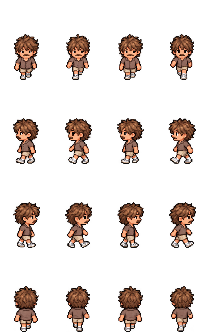
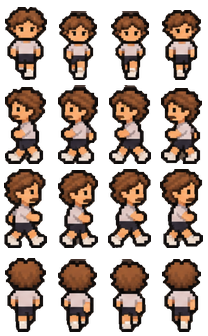
New Hayden, Bailey & Dakota's daily schedule, clickable walking views for everyone
- Hayden: new walking and biking sprites and admin portrait
- Annie: new admin portrait
- Bailey & Dakota: breakfast/dinner at the table, couch evenings, weekday gym 6-7 PM, weekend roaming
- Characters panel: Blair and all the animals show their walking animation

Claude-Session: https://claude.ai/code/session_019vfc9BGUzCoWkXYcXMf4Ma

diff --git a/game.js b/game.js
@@ -1355,10 +1355,35 @@
     const row = (_a2 = { down: 0, left: 1, right: 2, up: 3 }[actor.dir]) != null ? _a2 : 0;
     g.drawImage(source, Math.floor(actor.phase) % 4 * 52, row * 84, 52, 84, actor.x - 32, actor.y - 94, 64, 104);
   }
+  for (const n of ["jones_eat", "jones_couch", "jones_workout"]) loadAsset(n);
+  const IK = 0.75;
+  function jonesIndoorSprites(id) {
+    const act = jonesActivity(simMinute), out = [];
+    if (id === "jones" && (act === "breakfast" || act === "dinner")) out.push({ img: "jones_eat", sx: Math.floor(clock * 1.1) % 6 * 170, sy: 0, sw: 170, sh: 150, x: 195, y: 390, w: 182, h: 162, name: "Bailey & Dakota" });
+    if (id === "jones" && act === "couch") out.push({ img: "jones_couch", sx: Math.floor(clock * 0.5) % 5 * 150, sy: 0, sw: 150, sh: 110, x: 455, y: 405, w: 210, h: 154, name: "Bailey & Dakota" });
+    if (id === "gym" && act === "gym") {
+      const swap = simMinute >= 18.5 * 60;
+      const bench = { x: 712, y: 340, w: 185, h: 185 }, floor = { x: 520, y: 470, w: 175, h: 175 };
+      const who = [["Bailey", swap ? 1 : 0], ["Dakota", swap ? 2 : 3]];
+      for (const [name, row] of who) {
+        const benchRow = row === 1 || row === 3, n = benchRow ? 5 : 6, at = benchRow ? bench : floor;
+        out.push({ img: "jones_workout", sx: Math.floor(clock * (benchRow ? 2 : 2.4)) % n * 120, sy: row * 120, sw: 120, sh: 120, x: at.x, y: at.y, w: at.w, h: at.h, name });
+      }
+    }
+    return out;
+  }
+  function drawJonesIndoors(id) {
+    for (const s2 of jonesIndoorSprites(id)) {
+      const im = assets[s2.img];
+      if (!(im && im.naturalWidth)) continue;
+      g.drawImage(im, s2.sx, s2.sy, s2.sw, s2.sh, s2.x * IK, s2.y * IK, s2.w * IK, s2.h * IK);
+    }
+  }
   function drawIllustratedInterior(id) {
     const image = illustrated(id);
     fill(0, 0, 1152, 768, "#10251e");
     if (image) g.drawImage(image, 0, 0, 1152, 768);
+    if (image && (id === "jones" || id === "gym")) drawJonesIndoors(id);
     else text("Opening " + interiors[id].name + "…", 576, 384, 22, "#ffe4ac");
     const shade = darknessAt(simMinute) * 0.23;
     if (shade) fill(0, 0, 1152, 768, "rgba(22,29,65," + shade + ")");
@@ -1703,7 +1728,8 @@
         }
       }
       if (f.paths) {
-        if (rideEvening && homeSince5(f, T2)) continue;
+        if (f.id === "jonesF" && jonesActivity(m) !== "town") continue;
+        if (f.id !== "jonesF" && rideEvening && homeSince5(f, T2)) continue;
         const p = folkAt(f, clock);
         if (p) out.push(byId[f.id] = Object.assign(p, { folk: f }));
         continue;
@@ -1722,7 +1748,7 @@
   const RIDE_SPEED = RIDE_LAPS * RIDE_LOOP.length / (RIDE_END - RIDE_START);
   const RIDE_SHEETS = {
     annie: { cw: 90, ch: 100, frames: 7, rows: { right: [0, 4], left: [1, 4], down: [2, 7], up: [3, 7] }, dirs: ["down", "right", "up", "left"] },
-    hayden: { cw: 83, ch: 99, k: 0.8, dirs: ["down", "downright", "right", "upright", "up", "upleft", "left", "downleft"] },
+    hayden: { cw: 90, ch: 100, rows: { right: [0, 4], left: [1, 4], down: [2, 4], up: [3, 4] }, dirs: ["down", "right", "up", "left"] },
     alisa: { cw: 66, ch: 101, dirs: ["down", "right", "up", "left"] },
     ralph: { cw: 66, ch: 101, dirs: ["down", "right", "up", "left"] },
     nick: { cw: 66, ch: 100, dirs: ["down", "right", "up", "left"] },
@@ -1769,6 +1795,15 @@
   }
   const RIDER = Object.fromEntries(RIDERS.map((r) => [r.id, r]));
   let rideForced = false;
+  function jonesActivity(m) {
+    const wd = centralWeekday(), weekend = wd === 0 || wd === 6;
+    if (m < 7 * 60 || m >= 21.5 * 60) return "sleep";
+    if (m < 8 * 60) return "breakfast";
+    if (m >= 19 * 60 && m < 20 * 60) return "dinner";
+    if (m >= 20 * 60) return "couch";
+    if (!weekend && m >= 18 * 60) return isRideDay() ? "ride" : "gym";
+    return "town";
+  }
   function centralWeekday() {
     const day = centralSnapshot ? centralSnapshot.dayNumber : Math.floor(Date.now() / 864e5);
     return ((day + 4) % 7 + 7) % 7;
@@ -2167,7 +2202,7 @@
     g.drawImage(img, frame * 64, row * 96, 64, 96, Math.round(e.x - w / 2), Math.round(e.y - h + 6), w, h);
   }
   const ACTOR_K = 0.62;
-  const ANNIE_MATCH = 1.55, HAYDEN_MATCH = 1.33;
+  const ANNIE_MATCH = 1.55, HAYDEN_MATCH = 0.8;
   function townActors() {
     const hs = householdState, actors = [];
     const riderBox = (e) => {
@@ -2176,7 +2211,7 @@
       return [-sh.cw * k / 2, -sh.ch * k, sh.cw * k, sh.ch * k];
     };
     if (hs.girl.scene === "town") actors.push(hs.girl.ride ? { name: "Annie", entity: hs.girl, draw: drawRider, box: riderBox(hs.girl), k: 1 } : { name: "Annie", entity: hs.girl, draw: (e) => drawAnnie(e, 38, 57), box: [-16, -51, 32, 57] });
-    if (hs.boy.scene === "town") actors.push(hs.boy.ride ? { name: "Hayden", entity: hs.boy, draw: drawRider, box: riderBox(hs.boy), k: 1 } : { name: "Hayden", entity: hs.boy, draw: drawCompanion, box: [-15, -40, 30, 50], k: ACTOR_K * HAYDEN_MATCH });
+    if (hs.boy.scene === "town") actors.push(hs.boy.ride ? { name: "Hayden", entity: hs.boy, draw: drawRider, box: riderBox(hs.boy), k: 1 } : { name: "Hayden", entity: hs.boy, draw: drawCompanion, box: [-20, -64, 40, 70], k: ACTOR_K * HAYDEN_MATCH });
     for (const b of parkedBikes()) actors.push({ name: null, entity: b, draw: drawParkedBike, box: null, k: 1 });
     if (hs.dog.scene === "town") actors.push({ name: "Riley", entity: hs.dog, draw: (e) => drawPet(e, "dog"), box: [-18, -29, 36, 36], k: 0.8 });
     for (const e of townsfolkState()) {
@@ -2301,6 +2336,10 @@
         const ak = a.k || ACTOR_K, [bx, by, bw, bh] = a.box, [x, y] = T2.toScreen(a.entity.x + bx * ak, a.entity.y + by * ak), z = T2.camera.z * ak;
         list.push({ name: a.name, x, y, w: bw * z, h: bh * z });
       }
+      return list;
+    }
+    if (scene === "jones" || scene === "gym") {
+      for (const s2 of jonesIndoorSprites(scene)) list.push({ name: s2.name, x: s2.x * IK, y: s2.y * IK, w: s2.w * IK, h: s2.h * IK });
       return list;
     }
     const k = 640 / 768, room = (x, y, w, h, name) => list.push({ name, x: 256 + x * k, y: 52 + y * k, w: w * k, h: h * k });
@@ -2582,6 +2621,9 @@
     }
   });
   window.HM_DEBUG = {
+    jonesActivity(m) {
+      return jonesActivity(m == null ? simMinute : m);
+    },
     get dogs() {
       return townDogs().map((e) => ({ name: e.dog.name, x: e.x, y: e.y, row: e.row }));
     },

diff --git a/characters.js b/characters.js
@@ -3,9 +3,9 @@
   var btn = document.getElementById("charsToggle"), box = document.getElementById("charsBody");
   if (!btn || !box) return;
   var GROUPS = [
-    { title: "The Family", people: [["Hayden", "companion_avatar", 52, 84, 112, ["bikes/ride_hayden", 83, 99, 2]], ["Annie", "annie_walk", 64, 96, 112, ["bikes/ride_annie", 90, 100, 2], "annie_portrait", 0], ["Riley", "dog_sprite", 72, 72, 62], ["Theo", "cat_sprite", 72, 72, 54]] },
-    { title: "Ralph, Alisa, Maggie & Sophie", people: [["Ralph", "npc_blue", 64, 96, 112, ["bikes/ride_ralph", 66, 101, 1]], ["Alisa", "npc_sun", 64, 96, 108, ["bikes/ride_alisa", 66, 101, 1]], ["Maggie", "dogs/maggie", 58, 53, 66, null, "dogs/maggie_portrait"], ["Sophie", "dogs/sophie", 42, 45, 70, null, "dogs/sophie_portrait"]] },
-    { title: "Madi, Blair, Nick, Sadie & Mylo", people: [["Madi", "npc_long", 64, 96, 108, ["bikes/ride_madi", 72, 103, 1]], ["Blair", "npc_kid", 64, 96, 80], ["Nick", "npc_beard", 64, 96, 112, ["bikes/ride_nick", 66, 100, 1]], ["Sadie", "dogs/sadie", 60, 52, 66, null, "dogs/sadie_portrait"], ["Mylo", "dogs/mylo", 43, 42, 70, null, "dogs/mylo_portrait"]] },
+    { title: "The Family", people: [["Hayden", "companion_avatar", 52, 84, 112, ["bikes/ride_hayden", 90, 100, 2], "hayden_portrait", 0], ["Annie", "annie_walk", 64, 96, 112, ["bikes/ride_annie", 90, 100, 2], "annie_portrait", 0], ["Riley", "dog_sprite", 72, 72, 62, null, null, 2, 4], ["Theo", "cat_sprite", 72, 72, 54, null, null, 2, 4]] },
+    { title: "Ralph, Alisa, Maggie & Sophie", people: [["Ralph", "npc_blue", 64, 96, 112, ["bikes/ride_ralph", 66, 101, 1]], ["Alisa", "npc_sun", 64, 96, 108, ["bikes/ride_alisa", 66, 101, 1]], ["Maggie", "dogs/maggie", 58, 53, 66, null, "dogs/maggie_portrait", 1, 5], ["Sophie", "dogs/sophie", 42, 45, 70, null, "dogs/sophie_portrait", 1, 6]] },
+    { title: "Madi, Blair, Nick, Sadie & Mylo", people: [["Madi", "npc_long", 64, 96, 108, ["bikes/ride_madi", 72, 103, 1]], ["Blair", "npc_kid", 64, 96, 80, null, null, 0, 4], ["Nick", "npc_beard", 64, 96, 112, ["bikes/ride_nick", 66, 100, 1]], ["Sadie", "dogs/sadie", 60, 52, 66, null, "dogs/sadie_portrait", 1, 5], ["Mylo", "dogs/mylo", 43, 42, 70, null, "dogs/mylo_portrait", 1, 6]] },
     { title: "Bailey & Dakota", people: [["Bailey", "npc_jones_f", 64, 96, 112, ["bikes/ride_jones_f", 74, 101, 1], "portrait_jones_f"], ["Dakota", "npc_jones_m", 64, 96, 120, ["bikes/ride_jones_m", 74, 101, 1], "portrait_jones_m"]] }
   ];
   var built = false;
@@ -58,7 +58,7 @@
     return fig;
   }
   var animTimer = null;
-  function animCanvas(src, cw, ch, row, h, label) {
+  function animCanvas(src, cw, ch, row, h, label, frames) {
     var fig = document.createElement("figure");
     fig.className = "charAnim";
     var cv = document.createElement("canvas"), box2 = null;
@@ -67,7 +67,7 @@
     var img = new Image();
     var nf = 4;
     img.onload = function() {
-      nf = Math.max(1, Math.floor(img.naturalWidth / cw));
+      nf = frames || Math.max(1, Math.floor(img.naturalWidth / cw));
       box2 = { x0: 0, y0: 0, x1: cw, y1: ch };
       try {
         var t = document.createElement("canvas");
@@ -121,13 +121,17 @@
     fig.setAttribute("aria-expanded", "true");
     var d = document.createElement("div");
     d.className = "charDetail";
-    var b = p[5], H = 150;
-    var walk = animCanvas(p[1], p[2], p[3], p[7] || 0, H, p[0] + " walking");
-    var ride = animCanvas(b[0], b[1], b[2], b[3], H, p[0] + " on the bike");
+    var b = p[5], small = p[3] <= 72 && !b, H = small ? 110 : 150;
+    var walk = animCanvas(p[1], p[2], p[3], p[7] || 0, H, p[0] + " walking", p[8]);
     d.appendChild(walk);
-    d.appendChild(ride);
+    var cvs = [walk.firstChild];
+    if (b) {
+      var ride = animCanvas(b[0], b[1], b[2], b[3], H, p[0] + " on the bike");
+      d.appendChild(ride);
+      cvs.push(ride.firstChild);
+    }
     sec.appendChild(d);
-    var f = 0, cvs = [walk.firstChild, ride.firstChild];
+    var f = 0;
     var tick = function() {
       cvs.forEach(function(cv) {
         cv._draw(f);
@@ -149,12 +153,12 @@
       row.className = "charRow";
       gp.people.forEach(function(p) {
         var fig = card(p);
-        if (p[5]) {
+        {
           fig.className += " pick";
           fig.tabIndex = 0;
           fig.setAttribute("role", "button");
           fig.setAttribute("aria-expanded", "false");
-          fig.title = "Show " + p[0] + " on the bike";
+          fig.title = p[5] ? "Show " + p[0] + " walking and on the bike" : "Show " + p[0] + " walking";
           fig.onclick = function() {
             openDetail(p, sec, fig);
           };

diff --git a/index.html b/index.html
@@ -345,24 +345,24 @@ select{font:15px Georgia,serif;background:#f5dfb6;color:#3d3024;border:2px solid
  
   
 </div>
-<script src="compat.js?v=202611070430"></script>
-<script src="game-data.js?v=202611070430"></script>
-<script src="assets-embedded.js?v=202611070430"></script>
-<script src="map-data.js?v=202611070430"></script>
-<script src="town-routes.js?v=202611070430"></script>
-<script src="rain.js?v=202611070430"></script>
-<script src="town.js?v=202611070430"></script>
-<script src="game.js?v=202611070430"></script>
-<script src="osu-feed.js?v=202611070430"></script>
-<script src="thunder-feed.js?v=202611070430"></script>
-<script src="etsy-hq.js?v=202611070430"></script>
-<script src="catalog-data.js?v=202611070430"></script>
-<script src="hq-art-board.js?v=202611070430"></script>
-<script src="research-data.js?v=202611070430"></script>
-<script src="research-board.js?v=202611070430"></script>
-<script src="characters.js?v=202611070430"></script>
-<script src="admin.js?v=202611070430"></script>
-<script src="books-catalog.js?v=202611070430"></script>
+<script src="compat.js?v=202611070458"></script>
+<script src="game-data.js?v=202611070458"></script>
+<script src="assets-embedded.js?v=202611070458"></script>
+<script src="map-data.js?v=202611070458"></script>
+<script src="town-routes.js?v=202611070458"></script>
+<script src="rain.js?v=202611070458"></script>
+<script src="town.js?v=202611070458"></script>
+<script src="game.js?v=202611070458"></script>
+<script src="osu-feed.js?v=202611070458"></script>
+<script src="thunder-feed.js?v=202611070458"></script>
+<script src="etsy-hq.js?v=202611070458"></script>
+<script src="catalog-data.js?v=202611070458"></script>
+<script src="hq-art-board.js?v=202611070458"></script>
+<script src="research-data.js?v=202611070458"></script>
+<script src="research-board.js?v=202611070458"></script>
+<script src="characters.js?v=202611070458"></script>
+<script src="admin.js?v=202611070458"></script>
+<script src="books-catalog.js?v=202611070458"></script>
 <script>
 (() => {
   const t = document.getElementById("settingsTab"), p = document.getElementById("settingsPanel"), x = document.getElementById("settingsClose");

diff --git a/tools/make-batch5-sprites.py b/tools/make-batch5-sprites.py
@@ -1,0 +1,99 @@
+# Cuts the Nov 6 uploads into game sprites:
+#   Hayden sheet  -> assets/companion_avatar.png (4x4, 52x84 cells; rows down,left,right,up)
+#                    assets/bikes/ride_hayden.png (90x100 cells; rows right,left,down,up; 4 frames)
+#   Hayden single -> assets/hayden_portrait.png
+#   Eat together  -> assets/jones_eat.png (6 frames, 170x150 cells)
+#   Jones sheet   -> assets/jones_workout.png (rows: Bailey dumbbells, Bailey bench, Dakota dumbbells,
+#                    Dakota bench; 6 cols, 120x120 cells) and assets/jones_couch.png (5 frames, 150x110)
+# Usage: python3 tools/make-batch5-sprites.py <hayden sheet> <eat together> <jones activities> <hayden single> assets [<annie single>]
+import sys, json
+import numpy as np
+from PIL import Image
+from scipy import ndimage
+hs, eat, act, single, OUT = sys.argv[1:6]
+def load(p):
+    im = np.array(Image.open(p).convert('RGBA'))
+    rgb = im[..., :3].astype(float) / 255
+    gm = np.zeros(rgb.shape[:2])
+    for c in range(3):
+        gm = np.maximum(gm, np.hypot(ndimage.sobel(rgb[..., c], 1), ndimage.sobel(rgb[..., c], 0)))
+    fg = ndimage.binary_fill_holes(ndimage.binary_closing(gm > 0.25, iterations=2))
+    fg = ndimage.binary_erosion(ndimage.binary_opening(fg, iterations=1), iterations=2)
+    return im, fg
+def band(im, fg, y0, y1, x0, x1, n, minfrac=0.15):
+    m = fg[y0:y1, x0:x1]
+    prof = m.sum(0)
+    cols = np.where(prof > 2)[0]
+    a, b = int(cols[0]), int(cols[-1]) + 1
+    w = (b - a) / n
+    cuts = [a]
+    for k in range(1, n):
+        lo, hi = int(a + k * w - w * 0.35), int(a + k * w + w * 0.35)
+        seg = prof[lo:hi]; idx = np.where(seg == seg.min())[0]
+        cuts.append(lo + int(idx[len(idx) // 2]))
+    cuts.append(b)
+    out = []
+    for k in range(n):
+        cm = m[:, cuts[k]:cuts[k + 1]]
+        lab, nn = ndimage.label(cm)
+        sizes = ndimage.sum(cm, lab, range(1, nn + 1))
+        keep = np.isin(lab, 1 + np.where(sizes > minfrac * sizes.max())[0])
+        ys, xs = np.where(keep)
+        crop = im[y0 + ys.min():y0 + ys.max() + 1, x0 + cuts[k] + xs.min():x0 + cuts[k] + xs.max() + 1].copy()
+        crop[..., 3] = np.where(keep[ys.min():ys.max() + 1, xs.min():xs.max() + 1], 255, 0)
+        out.append(Image.fromarray(crop))
+    return out
+def sheet(rows, cw, ch, target_h, path, foot=0):
+    tallest = max(f.height for row in rows for f in row)
+    k = target_h / tallest
+    n = max(len(r) for r in rows)
+    sh = Image.new('RGBA', (cw * n, ch * len(rows)), (0, 0, 0, 0))
+    for r, row in enumerate(rows):
+        for c, f in enumerate(row):
+            g = f.resize((max(1, round(f.width * k)), max(1, round(f.height * k))), Image.LANCZOS)
+            if g.width > cw: g = g.resize((cw, round(g.height * cw / g.width)), Image.LANCZOS)
+            sh.alpha_composite(g, (c * cw + (cw - g.width) // 2, r * ch + ch - 1 - foot - g.height))
+    sh.save(path, optimize=True)
+# ---- Hayden
+im, fg = load(hs)
+W = {d: band(im, fg, y0, y1, 255, 700, 4) for d, (y0, y1) in
+     {'right': (165, 340), 'left': (395, 570), 'down': (615, 780), 'up': (812, 975)}.items()}
+B = {d: band(im, fg, y0, y1, 1000, 1515, 4) for d, (y0, y1) in
+     {'right': (165, 345), 'left': (395, 575), 'down': (615, 785), 'up': (812, 980)}.items()}
+sheet([W['down'], W['left'], W['right'], W['up']], 52, 84, 79, f'{OUT}/companion_avatar.png', foot=3)
+sheet([B['right'], B['left'], B['down'], B['up']], 90, 100, 98, f'{OUT}/bikes/ride_hayden.png')
+im, fg = load(single)
+lab, n = ndimage.label(fg)
+sizes = ndimage.sum(fg, lab, range(1, n + 1)); keep = np.isin(lab, 1 + np.where(sizes > 0.03 * sizes.max())[0])
+keep = ndimage.binary_fill_holes(ndimage.binary_closing(keep, iterations=4))
+ys, xs = np.where(keep)
+crop = im[ys.min():ys.max() + 1, xs.min():xs.max() + 1].copy()
+crop[..., 3] = np.where(keep[ys.min():ys.max() + 1, xs.min():xs.max() + 1], 255, 0)
+Image.fromarray(crop).save(f'{OUT}/hayden_portrait.png', optimize=True)
+def portrait(path, dest):
+    im, fg = load(path)
+    lab, n = ndimage.label(fg)
+    sizes = ndimage.sum(fg, lab, range(1, n + 1)); keep = np.isin(lab, 1 + np.where(sizes > 0.03 * sizes.max())[0])
+    keep = ndimage.binary_fill_holes(ndimage.binary_closing(keep, iterations=4))
+    ys, xs = np.where(keep)
+    crop = im[ys.min():ys.max() + 1, xs.min():xs.max() + 1].copy()
+    crop[..., 3] = np.where(keep[ys.min():ys.max() + 1, xs.min():xs.max() + 1], 255, 0)
+    Image.fromarray(crop).save(dest, optimize=True)
+if len(sys.argv) > 6:
+    portrait(sys.argv[6], f'{OUT}/annie_portrait.png')
+# ---- Eating together: table+chairs+people part of each framed card (rug edges trimmed off)
+e = Image.open(eat).convert('RGBA')
+FR = [(37, 211), (252, 421), (458, 625), (661, 823), (859, 1020), (1053, 1219)]
+strip = Image.new('RGBA', (170 * 6, 150), (0, 0, 0, 0))
+for i, (x0, x1) in enumerate(FR):
+    w = x1 - x0
+    c = e.crop((x0 + int(w * 0.04), 165, x1 - int(w * 0.02), 322)).resize((170, 150), Image.LANCZOS)
+    strip.paste(c, (i * 170, 0))
+strip.save(f'{OUT}/jones_eat.png', optimize=True)
+# ---- Bailey & Dakota activities
+im, fg = load(act)
+rows = [band(im, fg, 300, 490, 175, 720, 6), band(im, fg, 305, 492, 745, 1510, 5, 0.05),
+        band(im, fg, 785, 995, 175, 720, 6), band(im, fg, 790, 990, 745, 1510, 5, 0.05)]
+sheet(rows, 120, 120, 116, f'{OUT}/jones_workout.png')
+sheet([band(im, fg, 80, 248, 740, 1515, 5, 0.05)], 150, 110, 106, f'{OUT}/jones_couch.png')
+print('ok')

diff --git a/HANDOFF.md b/HANDOFF.md
@@ -43,6 +43,10 @@ While the Thunder feed says a game is live (`ThunderFeed.current.state === "in"`
 
 Annie uses `assets/annie_walk.png` (64x96 cells; rows down ×7, left ×6, right ×6, up ×7, idle ×5), `assets/bikes/ride_annie.png` (90x100 cells; rows right ×4, left ×4, down ×7, up ×7) and `assets/annie_portrait.png`, cut with `tools/make-annie-sprites.py <main sheet> assets <up-down sheet>`. `drawAnnie` in `game.js` draws her in town and indoors. The old `player_avatar.png` and the farmhouse meal/couch/sleep pictures still show the earlier look.
 
+## Bailey & Dakota's day
+
+Breakfast at home 7-8 AM and dinner 7-8 PM (table animation over the Jones dining table), couch 8-9:30 PM, asleep otherwise. Weekdays they are out in town 8 AM-6 PM and work out at the Gym 6-7 PM (dumbbells and bench press, swapping at 6:30; on Wednesdays the bike ride replaces the workout). Weekends they roam town 8 AM-7 PM. Code: `jonesActivity`, `jonesIndoorSprites` in `game.js`. Sprites `assets/jones_eat.png`, `jones_couch.png`, `jones_workout.png`; Hayden's new look (`companion_avatar.png`, `bikes/ride_hayden.png`, `hayden_portrait.png`) and Annie's admin portrait, cut with `tools/make-batch5-sprites.py`.
+
 ## Neighbours' dogs
 
 Maggie (brown) and Sophie (small tan) belong to the Gibbons and trail Alisa & Ralph; Sadie (gold) and Mylo (small grey) belong to the Hardaways and trail Madi, Blair & Nick. They follow the family's route a little behind, sit or idle when the family stops, and stay home at night and during the Wednesday ride. Code: `DOGS` / `townDogs` in `game.js`. Sprites `assets/dogs/<name>.png` (rows idle, walkR, walkL, runR, runL, sit, lay, getup, bark) and `<name>_portrait.png`, cut with `tools/make-dog-sprites.py`.
